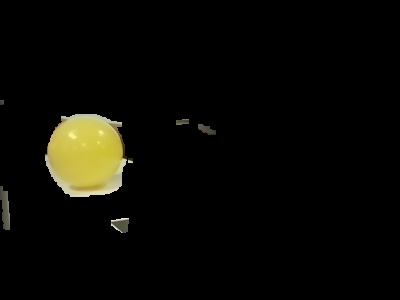
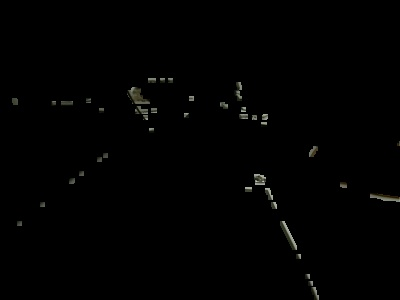
Commit Ball Detect

diff --git a/Code/Client/Video.py b/Code/Client/Video.py
@@ -55,7 +55,7 @@ class VideoStreaming:
             MODEL_NAME = 'Sample_TFLite_model'
             GRAPH_NAME = 'detect.tflite'
             LABELMAP_NAME = 'labelmap.txt'
-            min_conf_threshold = 0.3
+            min_conf_threshold = 0.8
             
             imW, imH = int(400), int(300)
 
@@ -127,7 +127,7 @@ class VideoStreaming:
             # Loop over all detections and draw detection box if confidence is above minimum threshold
             for i in range(len(scores)):
                 # Found desired object with decent confidence
-                if ( (scores[i] > max_score) and (scores[i] > min_conf_threshold) and (scores[i] <= 1.0)):
+                if (((labels[int(classes[i])] == "vase") or (labels[int(classes[i])] == "apple") or (labels[int(classes[i])] == "sports ball") or (labels[int(classes[i])] == "toilet") or (labels[int(classes[i])] == "frisbee") or (labels[int(classes[i])] == "cup") or (labels[int(classes[i])] == "orange"))):
                     # Get bounding box coordinates and draw box
                     # Interpreter can return coordinates that are outside of image dimensions, need to force them to be within image using max() and min()
                     ymin = int(max(1,(boxes[i][0] * imH)))
@@ -137,7 +137,7 @@ class VideoStreaming:
                     
                     # Draw label
                     object_name = labels[int(classes[i])] # Look up object name from "labels" array using class index
-                    label = '%s: %d%%' % (object_name, int(scores[i]*100)) # Example: 'person: 72%'
+                    label = '%s: %d%%' % ("Ball", int(scores[i]*100)) # Example: 'person: 72%'
                     labelSize, baseLine = cv2.getTextSize(label, cv2.FONT_HERSHEY_SIMPLEX, 0.7, 2) # Get font size
                     label_ymin = max(ymin, labelSize[1] + 10) # Make sure not to draw label too close to top of window
                     cv2.rectangle(frame, (xmin,ymin), (xmax,ymax), (10, 255, 0), 2)
@@ -163,7 +163,7 @@ class VideoStreaming:
 
             # Draw framerate in corner of frame
             cv2.putText(frame,'FPS: {0:.2f}'.format(frame_rate_calc),(30,50),cv2.FONT_HERSHEY_SIMPLEX,1,(255,255,0),2,cv2.LINE_AA)
-        
+            self.color_detect(img)            
         cv2.imwrite('video.jpg', frame)
             
             

diff --git a/Code/Client/Client_Ui.py b/Code/Client/Client_Ui.py
@@ -262,6 +262,14 @@ class Ui_Client(object):
         self.IP.setFont(font)
         self.IP.setStyleSheet("")
         self.IP.setObjectName("IP")
+        self.Color = QtWidgets.QLineEdit(Client)
+        self.Color.setGeometry(QtCore.QRect(10, 460, 101, 30))
+        font = QtGui.QFont()
+        font.setFamily("Malgun Gothic")
+        font.setPointSize(10)
+        self.Color.setFont(font)
+        self.Color.setStyleSheet("")
+        self.Color.setObjectName("Color")
         self.Btn_Connect = QtWidgets.QPushButton(Client)
         self.Btn_Connect.setGeometry(QtCore.QRect(120, 380, 90, 30))
         font = QtGui.QFont()
@@ -580,7 +588,8 @@ class Ui_Client(object):
         self.Btn_Up.setText(_translate("Client", "Up"))
         self.Btn_Right.setText(_translate("Client", "Right"))
         self.Window_Close.setText(_translate("Client", "×"))
-        self.IP.setText(_translate("Client", "IP Address"))
+        self.IP.setText(_translate("Client", "172.20.1.102"))
+        self.Color.setText(_translate("Client","Sequence"))
         self.Btn_Connect.setText(_translate("Client", "Connect"))
         self.checkBox_Led1.setText(_translate("Client", "Led1"))
         self.label_Servo2.setText(_translate("Client", "0"))

diff --git a/Code/Client/Main.py b/Code/Client/Main.py
@@ -622,7 +622,7 @@ class mywindow(QMainWindow,Ui_Client):
                 self.label_Video.setPixmap(QPixmap('video.jpg'))
                 if self.Btn_Tracking_Faces.text()=="Tracing-Off":
                     self.find_Face(self.TCP.face_x,self.TCP.face_y)
-                    #self.colorDetect()
+                    self.colorDetect()
         except Exception as e:
             print(e)
         self.TCP.video_Flag=True
